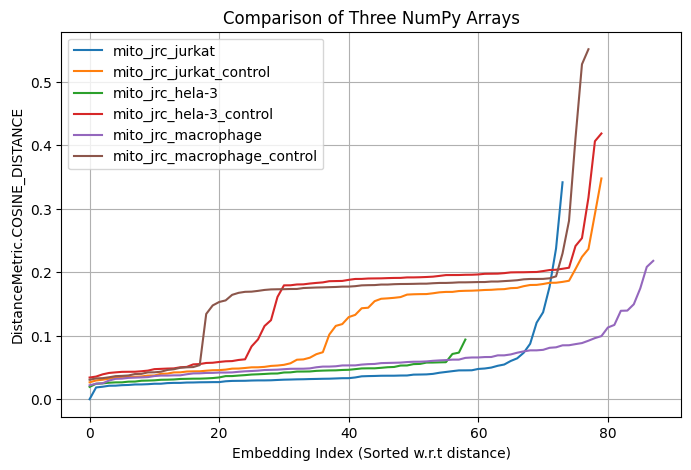
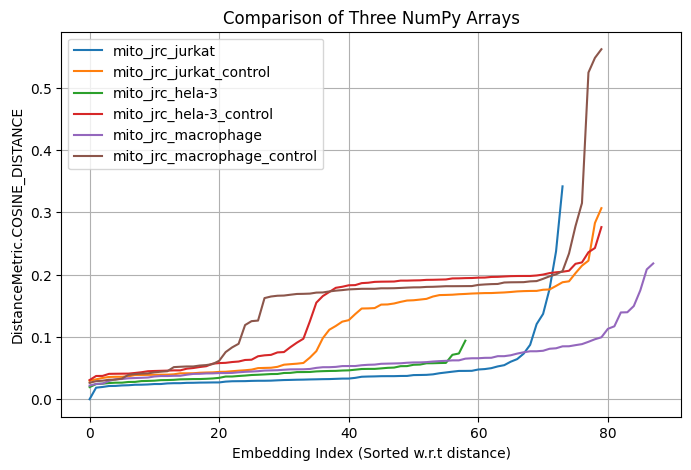
Added Images again and made minor readme changes

diff --git a/config.py b/config.py
@@ -36,6 +36,6 @@ TRANSFORMS =  T.Compose([
 ])
 
 
-DISTANCE_METRIC = DistanceMetric.MANHATTEN_DISTANCE
+DISTANCE_METRIC = DistanceMetric.COSINE_DISTANCE
 
 DEVICE = "mps"

diff --git a/README.md b/README.md
@@ -93,3 +93,6 @@ We can use this property to improve the model using Self Supervised Learning wit
 
 # Documentation
 A more detailed documentation is given at [documentation.md](./documentation.md)
+
+# LLM Usage Notice
+LLMs have only been used to create docstrings for specific functions and the outputs have been throughly checked.
